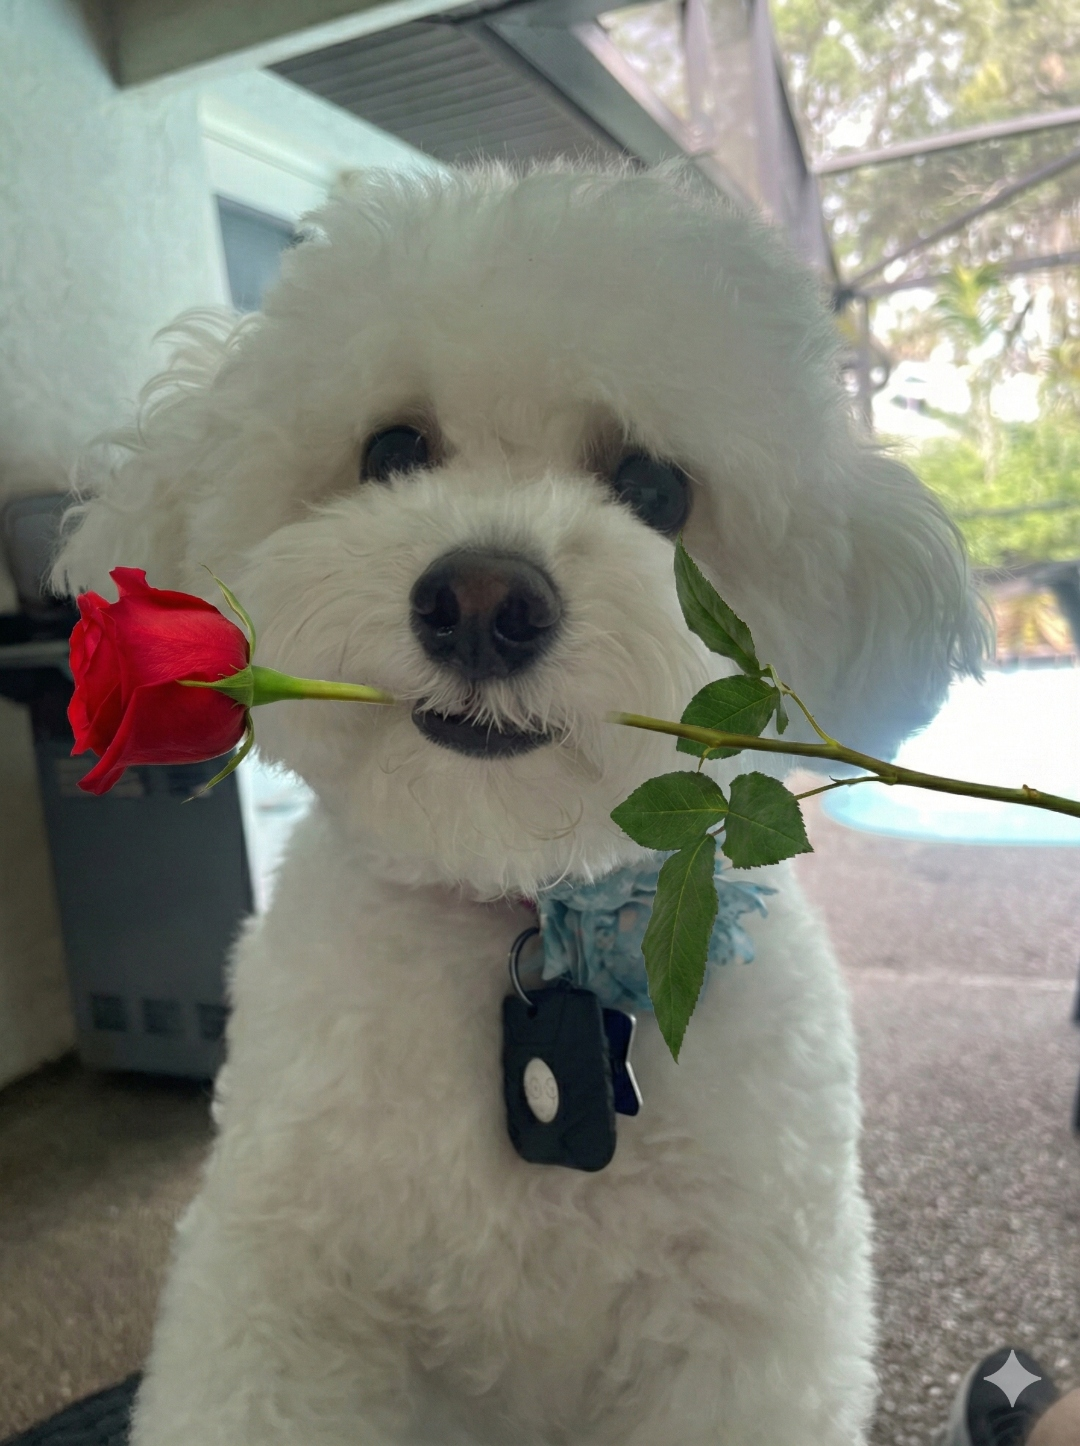
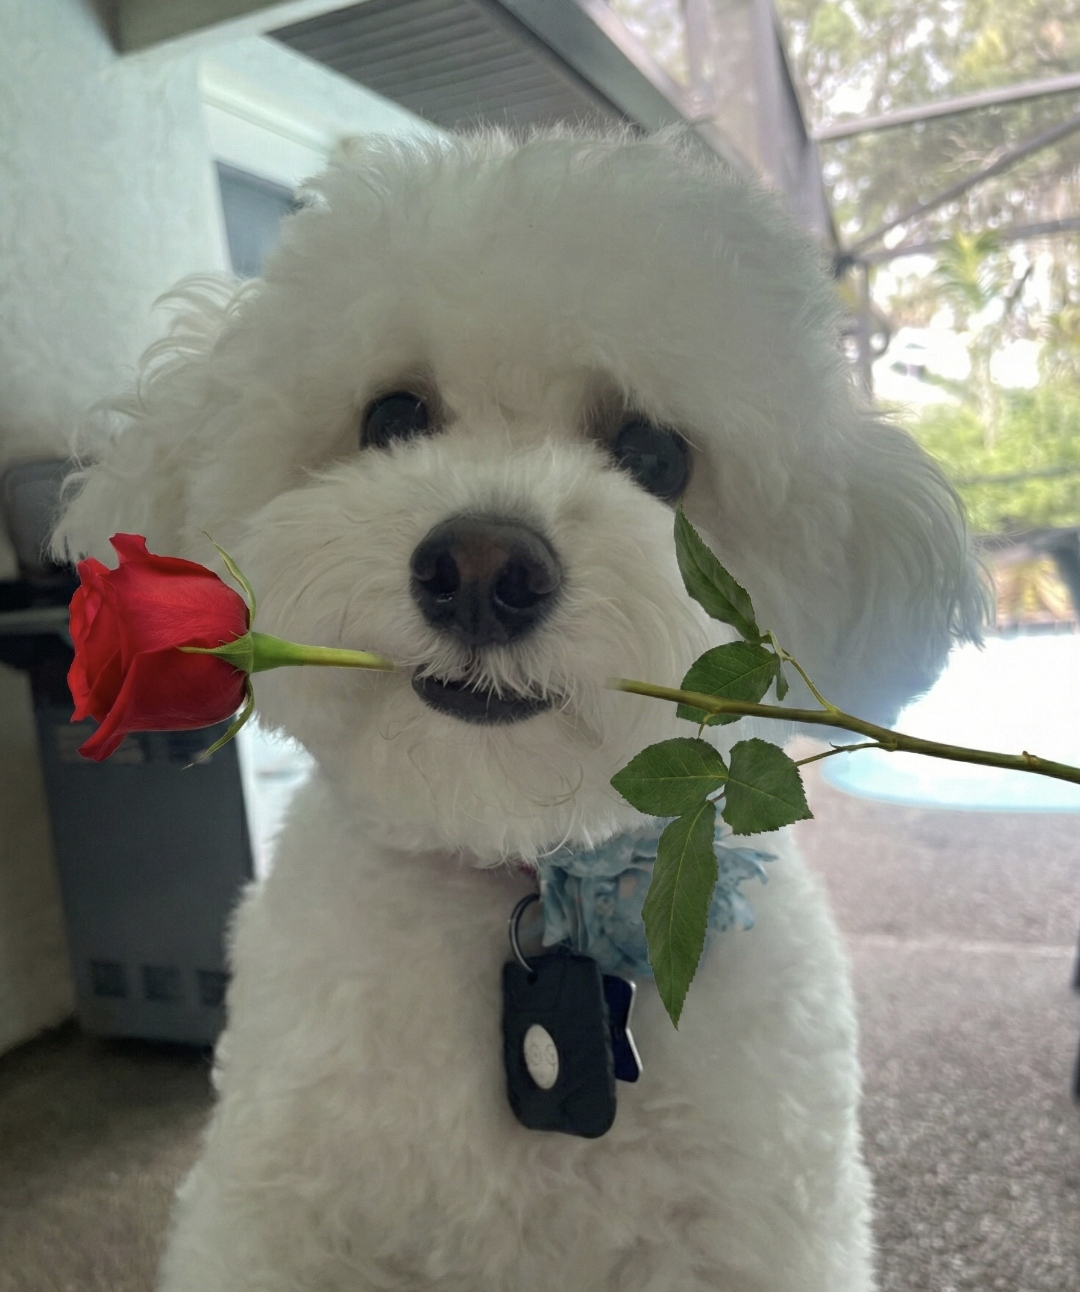
Refresh portrait, soften blend, swap M for Marcela Arenas emblem

diff --git a/public/index.html b/public/index.html
@@ -187,6 +187,7 @@
       position: relative;
       align-self: center;
       justify-self: end;
+      margin-right: 40px;
     }
 
     .portrait img {
@@ -197,8 +198,10 @@
       filter: saturate(1.02);
       position: relative;
       z-index: 1;
-      -webkit-mask-image: linear-gradient(to right, transparent 0%, rgba(0,0,0,0.15) 12%, rgba(0,0,0,0.55) 26%, rgba(0,0,0,0.92) 45%, #000 65%);
-              mask-image: linear-gradient(to right, transparent 0%, rgba(0,0,0,0.15) 12%, rgba(0,0,0,0.55) 26%, rgba(0,0,0,0.92) 45%, #000 65%);
+      border-radius: 10px;
+      box-shadow: 0 18px 48px rgba(0, 0, 0, 0.35);
+      -webkit-mask-image: linear-gradient(to right, rgba(0,0,0,0.55) 0%, rgba(0,0,0,0.85) 10%, #000 22%);
+              mask-image: linear-gradient(to right, rgba(0,0,0,0.55) 0%, rgba(0,0,0,0.85) 10%, #000 22%);
     }
 
     .caption {
@@ -222,7 +225,7 @@
       }
       .nav { padding: 24px 24px 0; }
       .content { max-width: 100%; order: 2; }
-      .portrait { order: 1; max-width: 320px; margin: 0 auto; justify-self: center; }
+      .portrait { order: 1; max-width: 320px; margin: 0 auto; justify-self: center; margin-right: auto; }
       .portrait img { max-width: 320px; }
       h1 { font-size: clamp(2.2rem, 8vw, 3.2rem); }
       .intro { margin-bottom: 32px; }